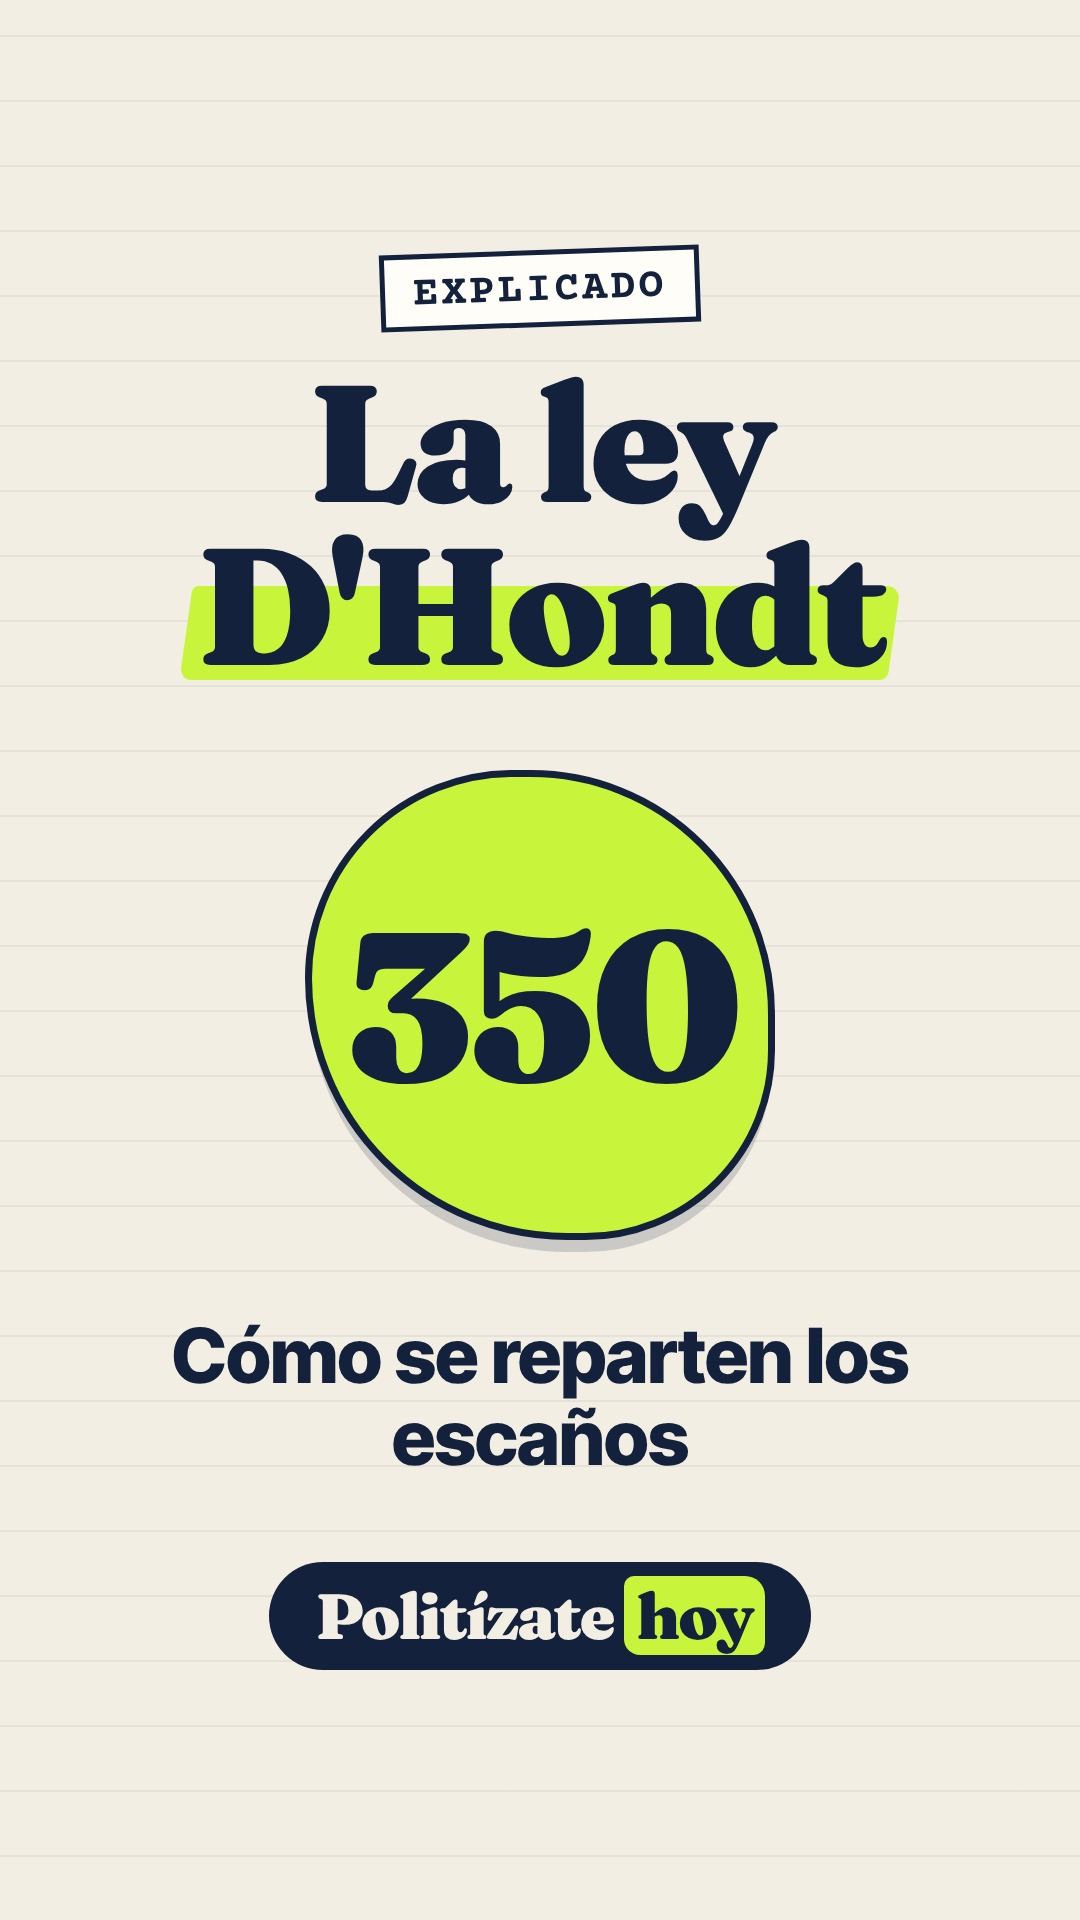
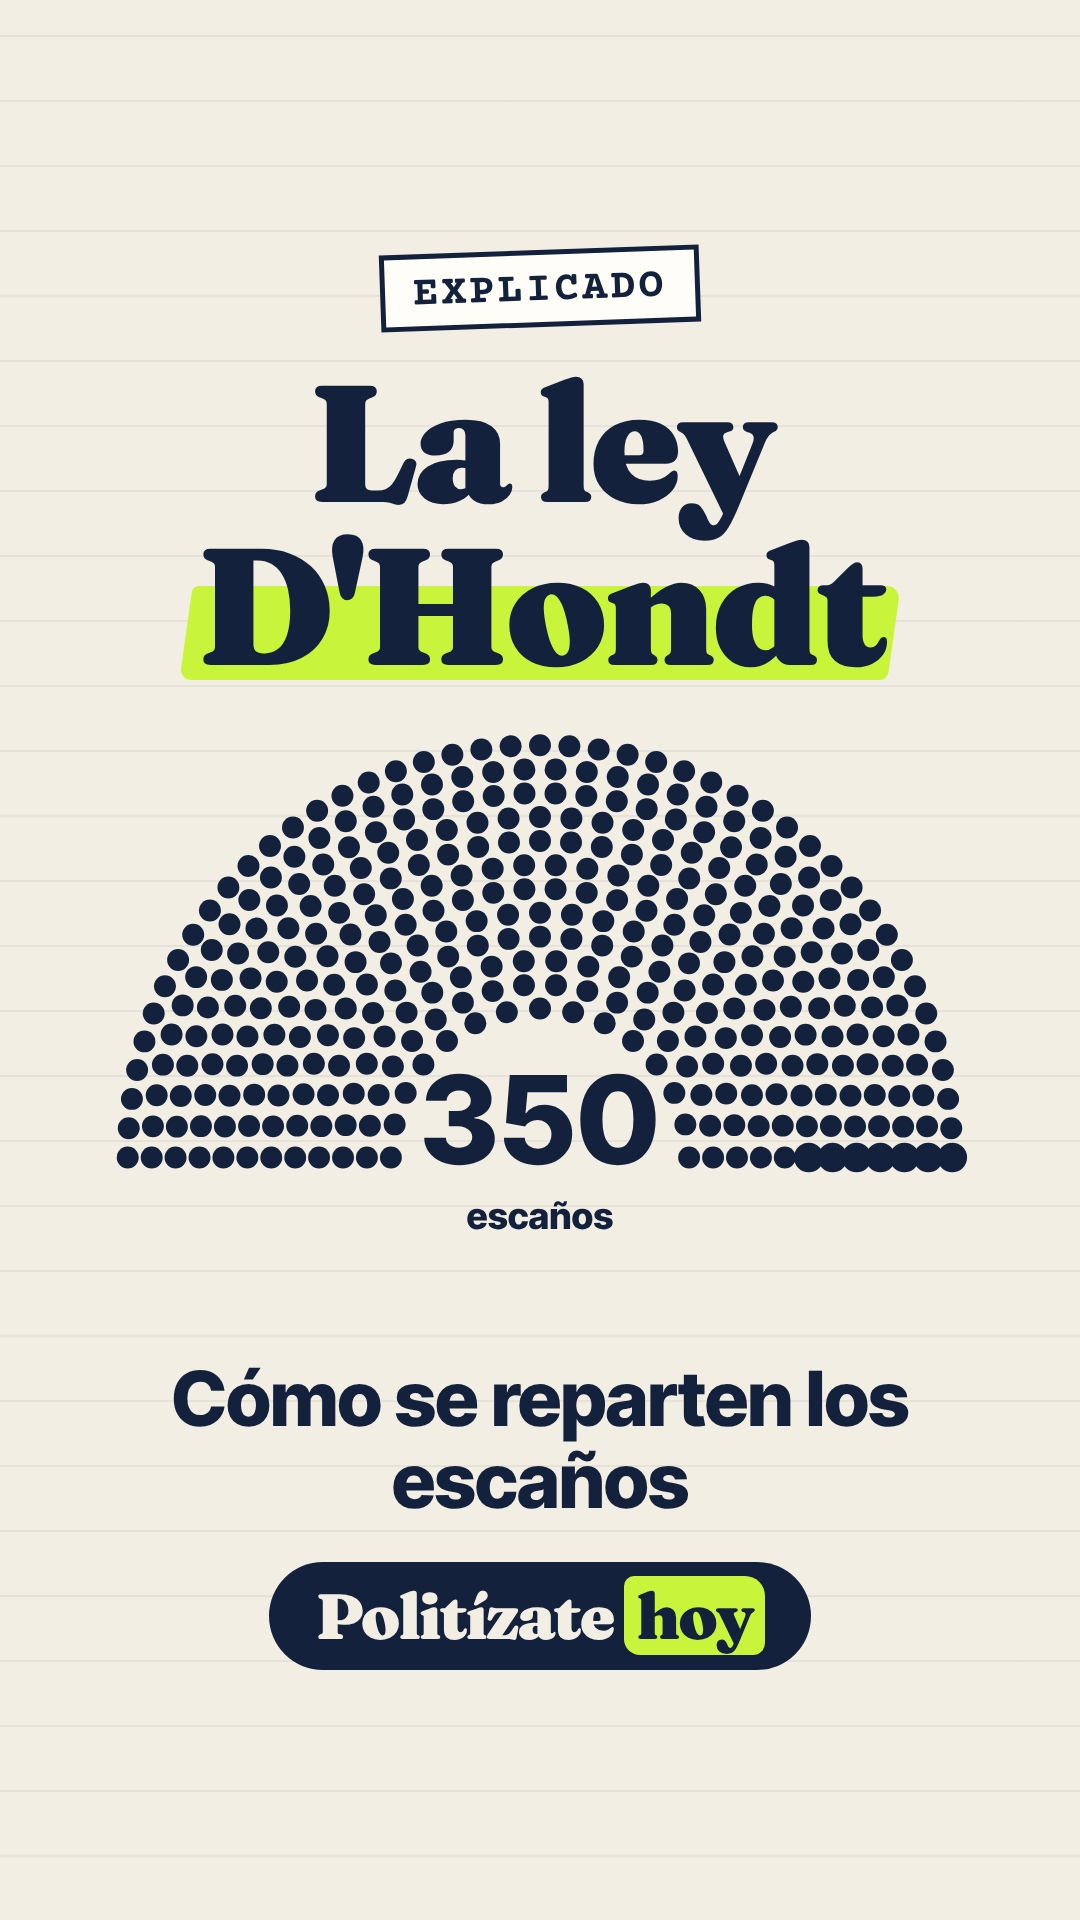
Formato animado aprobado: Urda minuto a minuto hoy 19:45, D'Hondt animado 5-N, portadas con escena; instrucciones
Claude-Session: https://claude.ai/code/session_01EQgpbid6Z6ejkRKtKHbqA2

Changed region(s): [[0.0917, 0.375, 0.9167, 0.6562], [0.1528, 0.6875, 0.8556, 0.8125]]

diff --git a/engine/slp.html b/engine/slp.html
@@ -208,6 +208,8 @@ function render(t){
 #cover .brand{background:var(--ink);border-radius:60px;padding:22px 46px;font:900 64px/1 F;color:#F3EEE3;letter-spacing:-2px}
 #cover .brand b{background:var(--mark);color:var(--ink);padding:0 12px;border-radius:10px 20px 12px 16px;font-weight:900}
 #cover.serio .vis{background:#E9E4D6}
+#cover .vis.esc{width:980px;height:600px;border:0;border-radius:0;background:none;box-shadow:none;transform:scale(1.02)}
+#cover .vis.esc svg{width:auto;height:auto}
 #cover.serio .tit .mk i{background:#E9E4D6}
 </style>
 <div id="cover"><div class="safe"><div class="top"><div class="ser"></div><div class="tit"></div></div><div class="vis"></div><div class="sub"></div><div class="brand">Politízate <b>hoy</b></div></div></div>
@@ -220,14 +222,19 @@ async function renderCover(g){
  const ic=p.icono||(first.find(e=>e.type==='icon')||first.find(e=>e.icon)||{}).icon||'doc';
  c.querySelector('.ser').textContent=p.serie||((g.header||{}).tag||'').split('·')[0].trim();
  const tt=p.titulo||head; const t=c.querySelector('.tit'); t.innerHTML=mk(tt);
- const n=tt.replace(/\*/g,'').length; t.style.fontSize=(n>26?122:n>16?140:166)+'px';
+ const n=tt.replace(/\*/g,'').length; t.style.fontSize=(p.tam||(n>26?122:n>16?140:166))+'px';
  let gr=p.grande;
  if(!gr&&ic==='user'){ // quién es quién: iniciales en vez del muñequito
   const w=tt.replace(/[*¿?]/g,'').split(/\s+/).filter(x=>x&&x[0]===x[0].toUpperCase()&&/\p{L}/u.test(x[0]));
   gr=(w.length>1?w[0][0]+w[w.length-1][0]:(w[0]||'').slice(0,2)).toUpperCase();
  }
- const v=c.querySelector('.vis'); v.innerHTML=gr?`<div class="big">${gr}</div>`:(ICO[ic]||'');
- if(gr){const L=[...gr].length; v.querySelector('.big').style.fontSize=(L===1?360:L<=2?250:L<=3?210:L<=4?170:L<=6?120:96)+'px';}
+ const v=c.querySelector('.vis');
+ if(p.escena){const e=Object.assign({t:0},p.escena);v.classList.add('esc');v.innerHTML=R[e.type](e);
+  if(e.type==='via'){e.keys=[Object.assign({p:0,speed:0,boom:false,lab:''},e.estado||{})];}
+  if(A[e.type])A[e.type](e,v,99,100);}
+ else {
+ v.innerHTML=gr?`<div class="big">${gr}</div>`:(ICO[ic]||'');
+ if(gr){const L=[...gr].length; v.querySelector('.big').style.fontSize=(L===1?360:L<=2?250:L<=3?210:L<=4?170:L<=6?120:96)+'px';} }
  const sb=c.querySelector('.sub'); sb.textContent=p.sub||''; sb.style.display=p.sub?'block':'none';
  await document.fonts.ready;
 }

diff --git a/engine/cover.js b/engine/cover.js
@@ -9,6 +9,6 @@ const fs = require('fs'), path = require('path');
   await p.goto('file://' + path.join(__dirname, 'slp.html'));
   await p.evaluate(async g => { await document.fonts.ready; await renderCover(g); }, g);
   await p.waitForTimeout(150);
-  await p.screenshot({ path: out, type: 'jpeg', quality: 92 });
+  await p.screenshot({ path: out, type: 'jpeg', quality: 96 });
   await b.close();
 })();

diff --git a/INSTRUCCIONES.md b/INSTRUCCIONES.md
@@ -79,6 +79,16 @@ Momentos ya conocidos: **13-N**, Jordi Wild publica en The Wild Project sus entr
 **Portadas (desde 3-N):** el círculo lleva un DATO, no un icono genérico. Pon siempre `portada.grande` con la cifra, fecha o palabra clave del vídeo (p. ej. "203", "69", "28-N", "4 h", "×3", "DNI"; máx. ~6 caracteres). En "Quién es quién" (icono user) salen solas las iniciales del título (PS, AF…). Icono solo si de verdad no hay dato. `sub` corto (≤ 32 caracteres): ahora se ve a 76 px. Nada de fotos de políticos (derechos de imagen).
 Series "Quién es quién": prioriza candidatos principales (Sánchez, Feijóo, Abascal, Díaz); los secundarios rinden mucho menos (Colau 41 views vs Feijóo 307).
 
+## Formato animado (Nicks, 3-N: "subida de calidad")
+Desde el 3-N, **al menos la mitad de los vídeos** se hacen en formato animado (`"formato": "animado"` en guion y cola), y todos los que tengan algo que se pueda dibujar:
+- `via`: esquema de vía con dos trenes, señal, reloj y choque; `keys` con `{"s": escena relativa, "g": segmento, "f": fracción}` y estado (`a`, `b` = posición 0–1, `sig` off/red/green, `clk`, `speed`, `boom`, `lab`). Ejemplo: `guiones/slp_033_urda_minuto.json`.
+- `hemi`: hemiciclo de 350 puntos que se llena (`fill` [{n, c}], `line` 176, contador). `grid`: tabla que aparece celda a celda y marca ganadores (`win`), p. ej. cocientes D'Hondt (ejemplo: `guiones/slp_014_dhondt.json`).
+- Cifras que cuentan: en `card` escribe `{69}`. `card` sin `icon` = tarjeta centrada solo con texto.
+- Algo nuevo en pantalla cada 2–3 s; la cámara ya hace zoom lento sola. Duración objetivo 35–45 s.
+- **Portada animada:** `portada.escena` = el mismo elemento (`via` con `estado`, `hemi`…) en lugar del círculo; `portada.tam` fija el tamaño del título si se parte mal. Revisa siempre la portada recortada 3:4.
+- Tono serio en tragedias: sin `boom` en portada, sin sellos.
+Mide: compara views y tiempo de visionado animado vs. normal en `registro.md` cada 3 días.
+
 ## Tragedias y sucesos graves
 Con víctimas (accidentes, atentados, catástrofes): `"tono": "serio"` en el guion (sin música, sin sellos de broma), etiquetas de la barra con `"clauseLabels"` (p. ej. LO QUE SE SABE / LOS AUDIOS / LO QUE NO SE SABE) en vez de cláusulas y letra pequeña, cifras atribuidas y con hora, nada de culpables mientras haya investigación, y nunca imágenes o detalles morbosos.
 

diff --git a/registro.md b/registro.md
@@ -19,3 +19,4 @@
 - 2026-11-03 10:48 Madrid (2.ª pasada de hoy, lanzada a mano): la de las 10:31 ya había cubierto hoy, 4-N y 5-N, así que no se ha tocado ninguna franja ni se ha usado Clipchamp. Sin guion de contexto de Puente: slp_028 ya sale a las 13:45 con el contexto previo a la comparecencia; lo que diga a las 17:00 queda para la pasada del 4-N.
 - 2026-11-03 10:32–11:05 Madrid (pasada paralela a la de las 10:31–10:50): ambas corrieron a la vez sin verse; esta hizo su propio radar y vídeos, pero al hacer push la otra ya había ocupado hoy, 4-N y 5-N, así que se ha descartado su cola y no se ha tocado ninguna franja. Su vídeo de Puente (slp_028_puente_hoy) se ha desechado por duplicado. Aprovechado solo como reserva: slp_031_mesas_excusas (usar pronto, útil hasta ~14-N; radar: sorteos hasta el 4-N, gancho 4, verificable 5; excusas según Instrucción 6/2011 JEC vía Telecinco y El Independiente) y slp_032_quien_cuenta. Reserva: 8 atemporales. Coste: Clipchamp usado dos veces en paralelo. Temas no usados por ninguna pasada para mirar el 4-N: cuantías del decreto de ayudas de Urda. TikTok comprobado de nuevo: pide iniciar sesión.
 - 2026-11-03 11:06 Madrid (nota de la pasada paralela): Actions correcta (última ejecución 10:33 Madrid), sin Reels en error. Retraso: slp_018_puente_cese salió el 2-N 67 min tarde. Las ejecuciones programadas cada 15 min se están lanzando más o menos una vez por hora (07:42, 08:39, 09:33 UTC).
+- 2026-11-03 11:50 Madrid (chat con Nicks): formato animado aprobado ("bastante mejor"). slp_033_urda_minuto (vía animada, AITAT/audios/Junta) hoy 19:45; Sánchez pasa al 4-N 19:45; D'Hondt animado (hemiciclo + tabla) 5-N 22:15; permiso_votar y senado vuelven a reserva. Portadas con escena animada (portada.escena). Instrucciones: ≥ mitad de vídeos animados.
